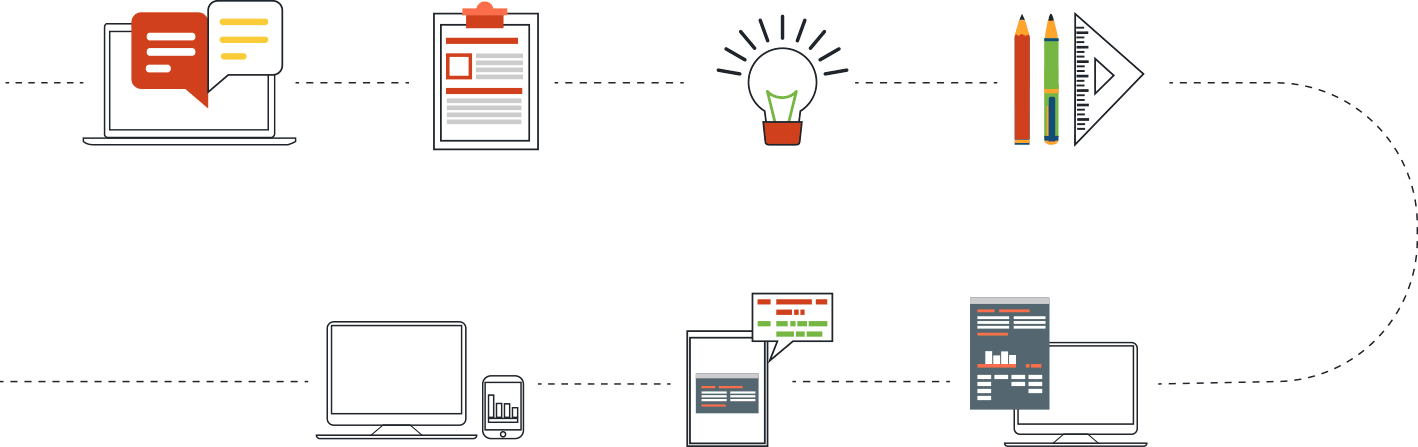
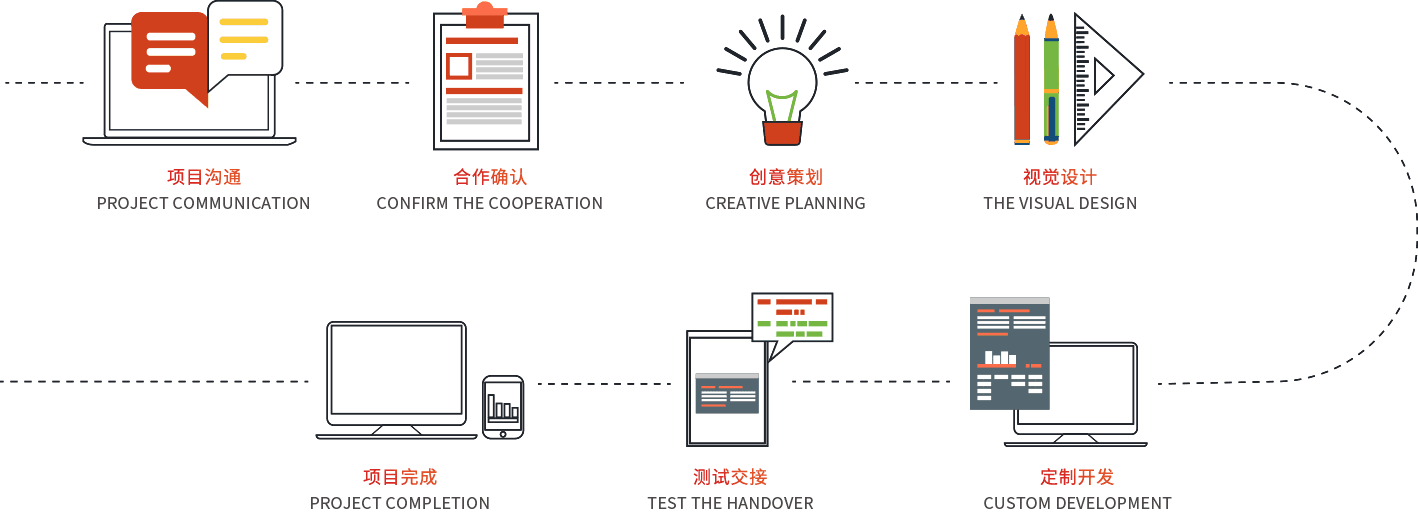
icare ---细节修改和新闻详情分享弹出层
#1  导航栏层级调整，解决模块重叠的问题
#2, 移动端导航加上首页
#3顶部导航栏几个都没出来
#4，导航中当前页文字显示红色
#5 服务流程缺少文字（）
#6  产品服务图片不一样（微信公众号）
#7#8 底部不需要email，调0文字 ，也解决行距问题

diff --git a/icare/news-detail.html b/icare/news-detail.html
@@ -15,16 +15,22 @@
 <title>icare</title>
 <script>
 $(function(){
+
+  
 	//分享弹出层
 	$(".icon-wx2").on("click",function(){		 
 		 $(".mask").show()
-		 $(".share-pop").show()	 
+		 $(".weixin").show()	 
 	})
-	
+	$(".icon-sina").on("click",function(){		 
+		 $(".mask").show()
+		 $(".sina").show()	 
+	})
 	//点击遮罩层隐藏
 	$(".mask").on("click",function(e){
 			e.stopPropagation()
-		 $(".share-pop").hide()	 
+		 $(".weixin").hide()	 
+		 $(".sina").hide()	 
      $(".mask").hide()
 	})
 	
@@ -40,11 +46,11 @@ $(function(){
 		</div>
 		<div class="nav">
 			<a href="#" class="hide-mb">H5 互动营销服务商</a>
-			<a href="index.html" class="hide-mb">首页</a>
+			<a href="index.html">首页</a>
 			<a href="server.html">服务</a>
 			<a href="case.html">案例</a>
 			<a href="about.html">关于</a>
-			<a href="news.html">动态</a>	
+			<a href="news.html" class="active">动态</a>	
 			<a href="contact.html">联系</a>	
 		</div>
 		<div class="header-tip hide-pc">
@@ -94,20 +100,25 @@ $(function(){
 			<p>程序员主角发言的一直以吐槽的形式体贯穿整体，老板发言部分是说唱的形式，超级搞笑。整个H5看似一直在瞎扯淡，可看完之后“11月13日”“QQ游戏王者大会战”“康熙”三个关键词，你已经在不知不觉中记住了。</p>
 			<p>不得不说说唱是一种音乐艺术配音是H5中非常重要的一个元素，说唱具备搞笑和节奏感的特点让它在一些有搞笑需求的H5中得到了应用。再配合切题的歌词，真的让人看过之后便难以忘记，若是你也想做一个效果出群的H5，不妨试试魔性说唱。</p>
 		</div>
-		<div  class="shareto">
-				<span>分享到：</span>
-				<i class="icon-wx2"></i>
-				<i class="icon-sina"></i>
-				<div class="share-pop">
-					<img src="images/qrcode.png" alt="">
-					<label>打开微信“扫一扫”打开网页后点击屏幕右上角“分享”按钮</label>
-				</div>
-		</div>
-		<div class="mask"></div>
 	</div>
 	<!--//新闻详情-->
+  <div  class="shareto">
+      <span>
+        分享到：
+        <div class="share-pop weixin">
+          <img src="images/qrcode.png" alt="">
+          <label>打开微信“扫一扫”打开网页后点击屏幕右上角“分享”按钮</label>
+        </div>
+        <div class="share-pop sina">
+          <img src="images/qrcode.png" alt="">
+          <label>打开新浪“扫一扫”打开网页后点击屏幕右上角“分享”按钮</label>
+        </div>
+      </span>
+      <i class="icon-wx2"></i>
+      <i class="icon-sina"></i>
+  </div>
+  <div class="mask"></div>
 </div>
-
 <div class="blank hide-mb"></div>
 <div class="main">
 	<!--	footer-->
@@ -117,8 +128,8 @@ $(function(){
 	<div class="footer">
 		<div class="f-phone">
 			<p>13163999993</p>
-			<span>０592-2220980</span>
-			<label>E-MAIL : jarvan@icarexm.com</label>
+			<span>0592-2220980</span>
+			<label class="hide-pc">E-MAIL : jarvan@icarexm.com</label>
 		</div>
 		<div class="f-qrcode">
 			<p>

diff --git a/icare/css/icare.css b/icare/css/icare.css
@@ -64,6 +64,9 @@ a:hover {
 	height: 1rem;
 	margin: 0 26px;
 }
+.nav a.active {
+	color: #DA391D;
+}
 .nav a:first-child:after{
 	content: " ";
   position: absolute;
@@ -1101,12 +1104,12 @@ a:hover {
 }
 /*分享到*/
 .shareto{
-	position: relative;
 	text-align: center;
-	width: 2.1rem;
-	margin: 1.2rem auto .3rem;
+	padding: 1.2rem 0 .3rem;
+  background-color: #fff;
 }
 .shareto span{
+  position: relative;
 	display:inline-block;
 	margin-right:.5rem;
 }
@@ -1125,18 +1128,18 @@ a:hover {
 }
 .share-pop{
 	position: absolute;
-	top: -1.8rem;
-	left: 0;
-	width: 3.1rem;
+  top: -1.66rem;
 	background-color: #fff;
-	padding: 10px;
+	padding: .1rem;
+  width: 2.7rem;
+  text-align: left;
 	box-shadow: -0.837px 11.971px 19.11px 1.89px rgba(0, 0, 0, 0.11);
   display: none;
 }
 .share-pop:after{
 	position: absolute;
-  top: 150px;
-  left: 125px;
+  top: 1.35rem;
+  left: 1.05rem;
 	content: "";
 	width:0; 
 	height:0; 
@@ -1144,16 +1147,19 @@ a:hover {
 	border-right: .26rem solid transparent;
 	border-top: .26rem solid #fff;
 }
-.share-pop img,
-.share-pop label{
+.share-pop img{
 	float: left;
-	text-align: left;
+  margin-right: .1rem;
+  margin-top: -.1rem;
 }
 .share-pop label{
 	line-height: 1.6;
-	width: 1.5rem;
-	padding-top: .2rem;
-	padding-left: .1rem;
+}
+.weixin{
+  left: .08rem;
+}
+.sina{
+  left: .47rem;
 }
 .mask {
 	position: fixed;
@@ -1322,23 +1328,23 @@ a:hover {
     font-size: 15px;
   }
   /*分享到*/
-  .shareto{
-    width:3.5rem
-  }
   .share-pop{
-    top:-2.3rem;
+    top:-2.2rem;
     width: 4.3rem;
   }
   .share-pop img{
     width: 80px;
   }
-  .share-pop label{
-	  padding-top: .1rem;
-    width: 2.1rem;
+  .shareto i{
+    width: .44rem;
+    height: .44rem;	
   }
   .share-pop:after{
-    top: 100px;
-    left: 102px;
+    top: 1.7rem;
+    left: 1.45rem;
+  }
+  .sina:after{
+    left: 1.65rem;
   }
   /*翻页*/
   .news-page a{
@@ -1363,7 +1369,7 @@ a:hover {
 		width: 100%;
 		height: 265px;
 		padding: 20px 0 0;
-		z-index: 999999;
+		z-index: 9999999999999;
 		background-color: rgba(25, 24, 29, 0.8);
 	}
 	.nav a {
@@ -1645,10 +1651,11 @@ a:hover {
 		height: 5.2rem;
 	}
 }
-/*-----------------------大于1280-----------------------*/
-@media (min-width: 820px) and (max-width: 1280px){
+/*-----------------------大于820-----------------------*/
+@media (min-width: 820px) and (max-width: 1420px){
+  .header,
 	.main{
-		width: 1260px;
+		width: 100%;
 	}
 	.sub-banner{
 		height: 450px;

diff --git a/icare/server.html b/icare/server.html
@@ -22,8 +22,8 @@
 		</div>
 		<div class="nav">
 			<a href="#" class="hide-mb">H5 互动营销服务商</a>
-			<a href="index.html" class="hide-mb">首页</a>
-			<a href="server.html">服务</a>
+			<a href="index.html">首页</a>
+			<a href="server.html" class="active">服务</a>
 			<a href="case.html">案例</a>
 			<a href="about.html">关于</a>
 			<a href="news.html">动态</a>	
@@ -118,7 +118,7 @@
 			</ul>
 		</div>
 		<div>
-			<img src="images/server02.png" alt="">
+			<img src="images/server02a.png" alt="">
 			<ul>
 				<li>定制开发</li>
 				<li>订阅号</li>
@@ -169,8 +169,8 @@
 	<div class="footer">
 		<div class="f-phone">
 			<p>13163999993</p>
-			<span>０592-2220980</span>
-			<label>E-MAIL : jarvan@icarexm.com</label>
+			<span>0592-2220980</span>
+			<label class="hide-pc">E-MAIL : jarvan@icarexm.com</label>
 		</div>
 		<div class="f-qrcode">
 			<p>

diff --git a/icare/contact.html b/icare/contact.html
@@ -22,12 +22,12 @@
 		</div>
 		<div class="nav">
 			<a href="#" class="hide-mb">H5 互动营销服务商</a>
-			<a href="index.html" class="hide-mb">首页</a>
+			<a href="index.html">首页</a>
 			<a href="server.html">服务</a>
 			<a href="case.html">案例</a>
 			<a href="about.html">关于</a>
 			<a href="news.html">动态</a>	
-			<a href="contact.html">联系</a>	
+			<a href="contact.html" class="active">联系</a>	
 		</div>
 		<div class="header-tip hide-pc">
 			  <i class="icon-qq"></i>
@@ -92,8 +92,8 @@
 	<div class="footer">
 		<div class="f-phone">
 			<p>13163999993</p>
-			<span>０592-2220980</span>
-			<label>E-MAIL : jarvan@icarexm.com</label>
+			<span>0592-2220980</span>
+			<label class="hide-pc">E-MAIL : jarvan@icarexm.com</label>
 		</div>
 		<div class="f-qrcode">
 			<p>

diff --git a/icare/news.html b/icare/news.html
@@ -22,11 +22,11 @@
 		</div>
 		<div class="nav">
 			<a href="#" class="hide-mb">H5 互动营销服务商</a>
-			<a href="index.html" class="hide-mb">首页</a>
+			<a href="index.html">首页</a>
 			<a href="server.html">服务</a>
 			<a href="case.html">案例</a>
 			<a href="about.html">关于</a>
-			<a href="news.html">动态</a>	
+			<a href="news.html" class="active">动态</a>	
 			<a href="contact.html">联系</a>	
 		</div>
 		<div class="header-tip hide-pc">
@@ -242,8 +242,8 @@
 	<div class="footer">
 		<div class="f-phone">
 			<p>13163999993</p>
-			<span>０592-2220980</span>
-			<label>E-MAIL : jarvan@icarexm.com</label>
+			<span>0592-2220980</span>
+			<label class="hide-pc">E-MAIL : jarvan@icarexm.com</label>
 		</div>
 		<div class="f-qrcode">
 			<p>

diff --git a/icare/about.html b/icare/about.html
@@ -22,10 +22,10 @@
 		</div>
 		<div class="nav">
 			<a href="#" class="hide-mb">H5 互动营销服务商</a>
-			<a href="index.html" class="hide-mb">首页</a>
+			<a href="index.html">首页</a>
 			<a href="server.html">服务</a>
 			<a href="case.html">案例</a>
-			<a href="about.html">关于</a>
+			<a href="about.html"  class="active">关于</a>
 			<a href="news.html">动态</a>	
 			<a href="contact.html">联系</a>	
 		</div>
@@ -239,8 +239,8 @@
 	<div class="footer">
 		<div class="f-phone">
 			<p>13163999993</p>
-			<span>０592-2220980</span>
-			<label>E-MAIL : jarvan@icarexm.com</label>
+			<span>0592-2220980</span>
+			<label class="hide-pc">E-MAIL : jarvan@icarexm.com</label>
 		</div>
 		<div class="f-qrcode">
 			<p>

diff --git a/icare/case.html b/icare/case.html
@@ -22,9 +22,9 @@
 		</div>
 		<div class="nav">
 			<a href="#" class="hide-mb">H5 互动营销服务商</a>
-			<a href="index.html" class="hide-mb">首页</a>
+			<a href="index.html">首页</a>
 			<a href="server.html">服务</a>
-			<a href="case.html">案例</a>
+			<a href="case.html" class="active">案例</a>
 			<a href="about.html">关于</a>
 			<a href="news.html">动态</a>	
 			<a href="contact.html">联系</a>	
@@ -240,8 +240,8 @@
 	<div class="footer">
 		<div class="f-phone">
 			<p>13163999993</p>
-			<span>０592-2220980</span>
-			<label>E-MAIL : jarvan@icarexm.com</label>
+			<span>0592-2220980</span>
+			<label class="hide-pc">E-MAIL : jarvan@icarexm.com</label>
 		</div>
 		<div class="f-qrcode">
 			<p>

diff --git a/icare/index.html b/icare/index.html
@@ -47,7 +47,7 @@ $(function(){
 		</div>
 		<div class="nav">
 			<a href="#" class="hide-mb">H5 互动营销服务商</a>
-			<a href="index.html" class="hide-mb">首页</a>
+			<a href="index.html" class="active">首页</a>
 			<a href="server.html">服务</a>
 			<a href="case.html">案例</a>
 			<a href="about.html">关于</a>
@@ -424,8 +424,8 @@ $(function(){
 	<div class="footer">
 		<div class="f-phone">
 			<p>13163999993</p>
-			<span>０592-2220980</span>
-			<label>E-MAIL : jarvan@icarexm.com</label>
+			<span>0592-2220980</span>
+			<label class="hide-pc">E-MAIL : jarvan@icarexm.com</label>
 		</div>
 		<div class="f-qrcode">
 			<p>

diff --git a/index.html b/index.html
@@ -1,0 +1,17 @@
+<!doctype html>
+<html lang="zh-CN">
+<head>
+<meta charset="utf-8">
+<meta http-equiv="X-UA-Compatible" content="IE=edge,chrome=1"/>
+<meta name="viewport" content="width=device-width, initial-scale=1.0, maximum-scale=1">
+<meta name="apple-mobile-web-app-title" content="Title"/>
+<meta name="apple-mobile-web-app-capable" content="yes"/>
+<meta name="apple-mobile-web-app-status-bar-style" content="black"/>
+<link rel="stylesheet" href="css/swiper.min.css">
+<link rel="stylesheet" href="css/webcom.css">
+<title>webcom11</title>
+</head>
+<body>
+IT IS SMUI!
+</body>
+</html>
